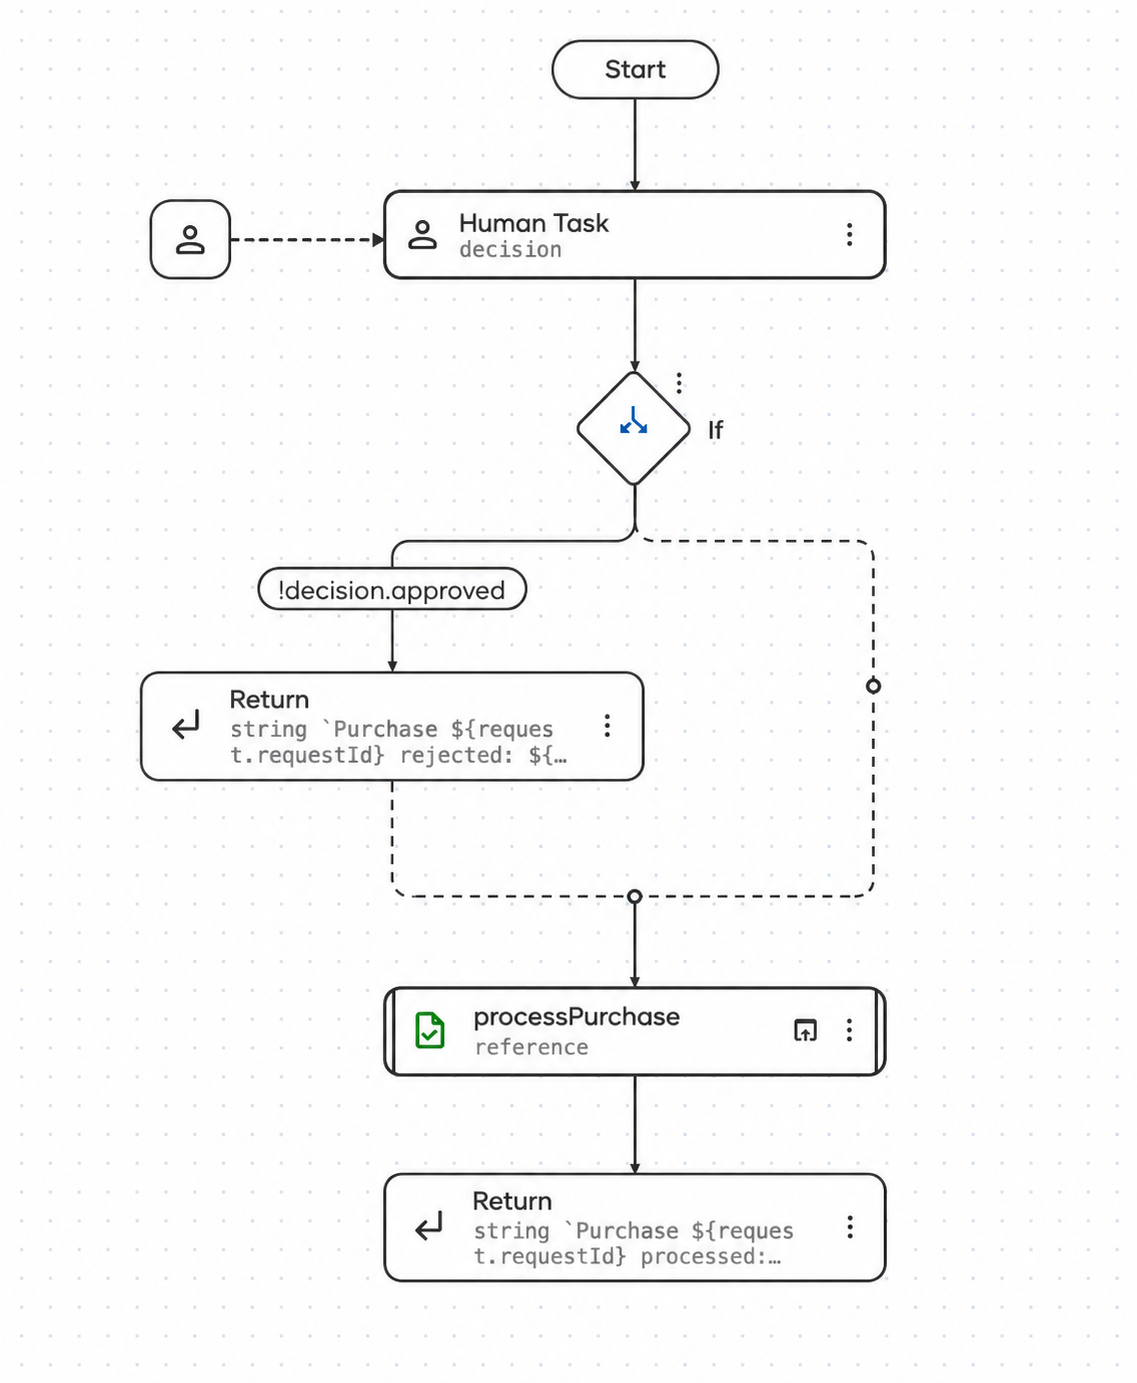
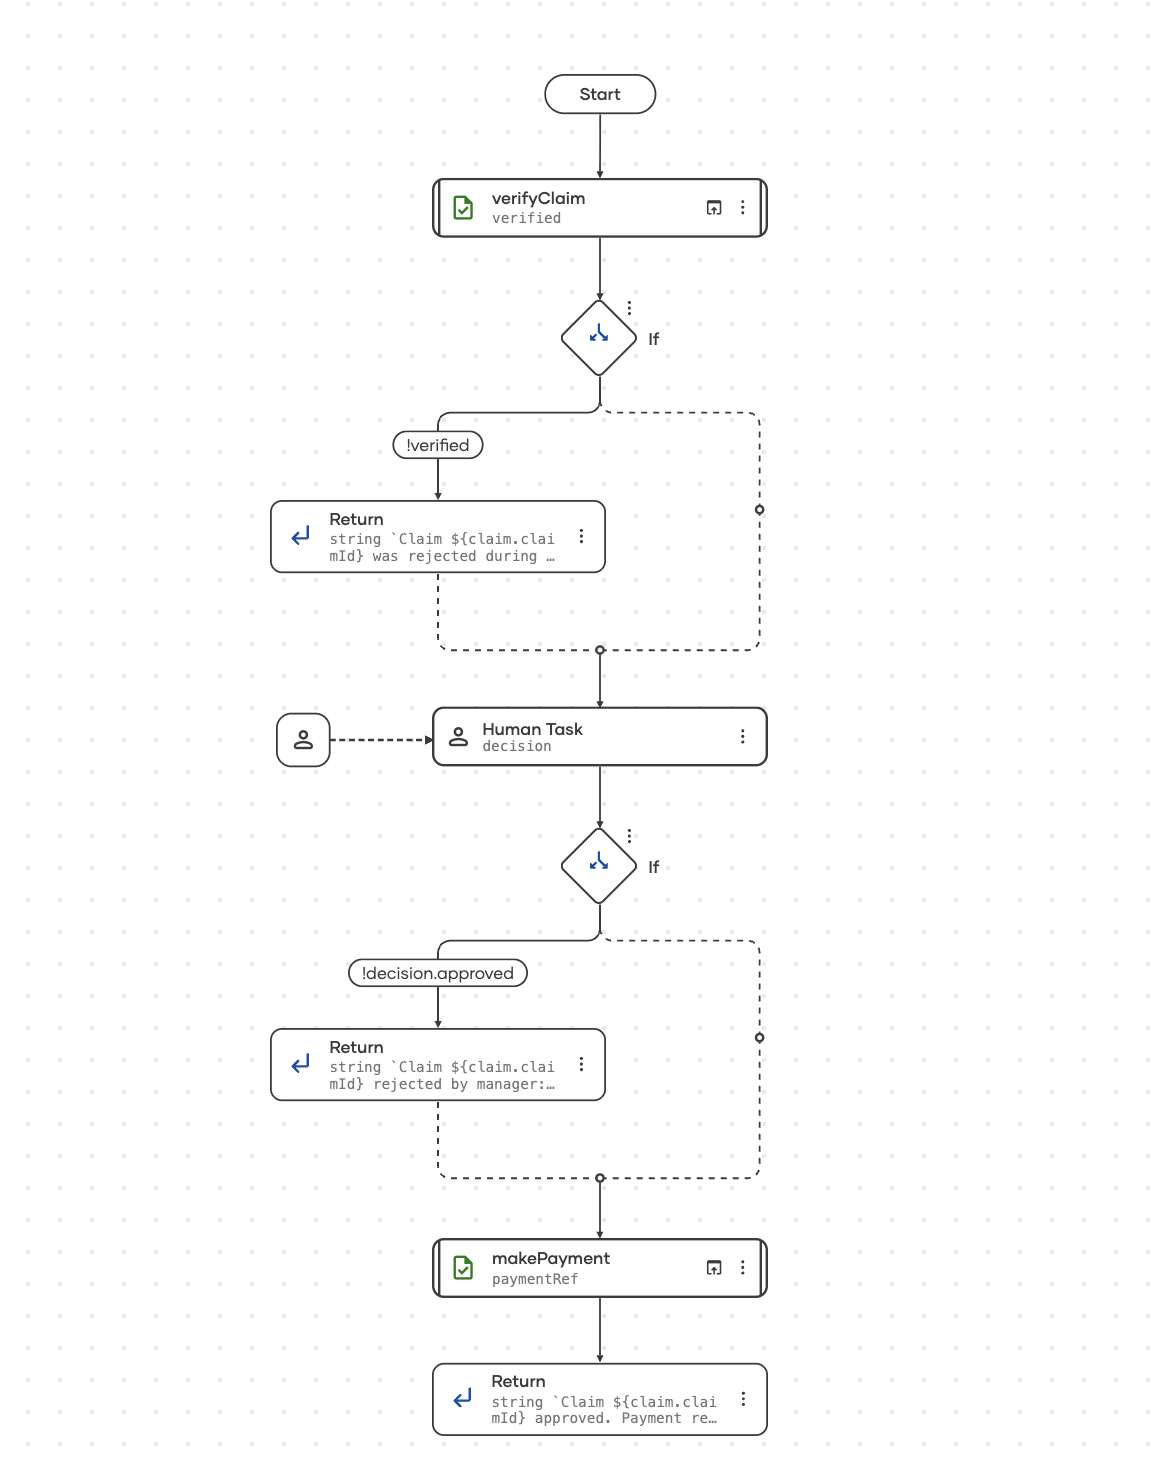
Improve homepage

diff --git a/components/home-page/bal-action/examples.js b/components/home-page/bal-action/examples.js
@@ -59,13 +59,14 @@ export const examples = [
     source: 'enterprise_agent/main.bal', link: base + 'enterprise_agent',
     diagram: {
       kind: 'image',
+      large: true,
       src: '/images/home-page/build-agent-flow.png',
       alt: 'Flow diagram showing an OpenAI-powered delivery agent with order and shipment lookup tools, followed by the agent run and logged answer'
     }
   },
   {
     id: 'expose-mcp', label: 'Expose MCP tools', title: 'Expose product stock through MCP',
-    description: 'Expose a stateless MCP service that retrieves typed stock data from an HTTP backend, logs successful lookups, and returns contextual errors when requests fail.',
+    description: 'Expose an MCP service that retrieves typed stock data from an HTTP backend, logs successful lookups, and returns contextual errors when requests fail.',
     source: 'expose_mcp_tools/main.bal', link: base + 'expose_mcp_tools',
     diagram: {
       kind: 'image',
@@ -74,13 +75,14 @@ export const examples = [
     }
   },
   {
-    id: 'coordinate-workflow', label: 'Coordinate a workflow', title: 'Purchase approval',
-    description: 'Pause a durable purchase workflow for a human decision, return a clear rejection when approval is denied, or continue to process an approved purchase.',
-    source: 'workflow_purchase_approval/main.bal', link: base + 'workflow_purchase_approval',
+    id: 'coordinate-workflow', label: 'Coordinate a workflow', title: 'Claim approval with a human task',
+    description: 'Verify an insurance claim, pause the durable workflow for a manager’s decision, and pay approved claims while returning clear rejection results.',
+    source: 'workflow-human-task/main.bal', link: base + 'workflow-human-task',
     diagram: {
       kind: 'image',
+      large: true,
       src: '/images/home-page/coordinate-workflow-flow.png',
-      alt: 'Workflow diagram that waits for a human approval, returns a rejection when denied, or processes and returns an approved purchase'
+      alt: 'Visual workflow for claim approval showing claim verification, a human decision task, rejection paths, and payment for approved claims'
     }
   }
 ];

diff --git a/components/home-page/bal-action/BalAction.module.css b/components/home-page/bal-action/BalAction.module.css
@@ -21,6 +21,7 @@
 .diagramPane { display: flex; flex-direction: column; }
 .diagramImageWrap { display: flex; align-items: center; justify-content: center; flex: 1; min-height: 0; padding: 12px; background: #fff; }
 .diagramImage { display: block; width: 100%; height: auto; max-height: 430px; object-fit: contain; }
+.diagramImageLarge { max-height: 700px; }
 .sequence { display: flex; flex-direction: column; gap: 18px; padding: 24px 18px; flex: 1; justify-content: center; }
 .participants { display: flex; justify-content: space-between; gap: 6px; }
 .participants span { display: flex; align-items: center; justify-content: center; text-align: center; border: 1px solid #20b6b0; background: #ecf8f7; border-radius: 4px; padding: 9px 6px; min-width: 0; flex: 1; font-size: 13px; }

diff --git a/components/home-page/bal-action/BalAction.js b/components/home-page/bal-action/BalAction.js
@@ -12,7 +12,7 @@ import styles from './BalAction.module.css';
 function Diagram({ diagram }) {
   if (diagram.kind === 'image') {
     return <div className={styles.diagramImageWrap}>
-      <img className={styles.diagramImage} src={diagram.src} alt={diagram.alt} />
+      <img className={`${styles.diagramImage} ${diagram.large ? styles.diagramImageLarge : ''}`} src={diagram.src} alt={diagram.alt} />
     </div>;
   }
   if (diagram.kind === 'mapping' || diagram.kind === 'workflow') {

diff --git a/components/home-page/bal-action/action-bbe/coordinate-workflow.md b/components/home-page/bal-action/action-bbe/coordinate-workflow.md
@@ -1,45 +1,63 @@
 import ballerina/http;
 import ballerina/io;
 import ballerina/workflow;
+import ballerina/workflow.management;
 
-type PurchaseRequest record {|
-    string requestId;
-    string item;
+type Claim record {|
+    string claimId;
+    string policyNo;
     decimal amount;
 |};
 
-type Approval record {|
+type ApprovalDecision record {|
     boolean approved;
     string comment;
 |};
 
 @workflow:Workflow
-function purchaseWorkflow(workflow:Context ctx, PurchaseRequest request)
-        returns string|error {
-    Approval decision = check ctx->awaitHumanTask("approvePurchase",
-        {requestId: request.requestId, item: request.item,
-            amount: request.amount},
-        userRoles = "MANAGER",
-        title = string `Approve purchase ${request.requestId}`,
-        description = "Review the purchase request.");
-    if !decision.approved {
-        return string `Purchase ${request.requestId} rejected: ${decision.comment}`;
+function claimApprovalWorkflow(workflow:Context ctx, Claim claim) returns string|error {
+    boolean verified = check ctx->callActivity(verifyClaim, {"claim": claim});
+    if !verified {
+        return string `Claim ${claim.claimId} was rejected during verification.`;
     }
-    string reference = check ctx->callActivity(processPurchase,
-        {"requestId": request.requestId});
-    return string `Purchase ${request.requestId} processed: ${reference}`;
+    ApprovalDecision decision = check ctx->awaitHumanTask("approveClaim", "MANAGER",
+            payload = {claimId: claim.claimId, policyNo: claim.policyNo, amount: claim.amount},
+            title = string `Approve claim ${claim.claimId}`,
+            description = "Review the claim and approve or reject the payment.");
+    if !decision.approved {
+        return string `Claim ${claim.claimId} rejected by manager: ${decision.comment}`;
+    }
+    string paymentRef = check ctx->callActivity(makePayment, {"claimId": claim.claimId, "amount": claim.amount});
+    return string `Claim ${claim.claimId} approved. Payment reference: ${paymentRef}`;
 }
 
 @workflow:Activity
-function processPurchase(string requestId) returns string|error {
-    io:println("Processing approved purchase ", requestId);
-    return string `PO-${requestId}`;
+function verifyClaim(Claim claim) returns boolean|error {
+    io:println(string `Verifying claim ${claim.claimId} against policy ${claim.policyNo}`);
+    return claim.amount <= 1000.0d;
 }
 
-service /purchases on new http:Listener(8080) {
-    resource function post .(PurchaseRequest request) returns json|error {
-        string workflowId = check workflow:run(purchaseWorkflow, request);
-        return {requestId: request.requestId, workflowId,
-            status: "PENDING_APPROVAL"};
+@workflow:Activity
+function makePayment(string claimId, decimal amount) returns string|error {
+    io:println(string `Paying ${amount} for claim ${claimId}`);
+    return string `PAY-${claimId}`;
+}
+
+service /claims on new http:Listener(8080) {
+
+    resource function post .(Claim claim) returns json|error {
+        string workflowId = check workflow:run(claimApprovalWorkflow, claim);
+        return {claimId: claim.claimId, workflowId, status: "PENDING_APPROVAL"};
+    }
+
+    resource function get [string workflowId]() returns json|error {
+        // Check the status first instead of blocking on the result:
+        // getWorkflowResult waits until the workflow completes.
+        management:WorkflowExecutionInfo info = check management:getWorkflowInfo(workflowId);
+        if info.status != "COMPLETED" {
+            return {workflowId, status: info.status};
+        }
+        anydata result = check workflow:getWorkflowResult(workflowId);
+        return {workflowId, status: info.status, result: check result.cloneWithType(json)};
     }
 }

diff --git a/components/home-page/bal-action/action-bbe/expose-mcp.md b/components/home-page/bal-action/action-bbe/expose-mcp.md
@@ -12,8 +12,7 @@ final http:Client stockClient = check new ("http://localhost:9091");
 listener mcp:StreamableHttpListener stockMcpListener = check new (9090);
 
 @mcp:StreamableHttpServiceConfig {
-    info: {name: "Product stock", version: "1.0.0"},
-    sessionMode: mcp:STATELESS
+    info: {name: "Product stock", version: "1.0.0"}
 }
 service mcp:StreamableHttpService /mcp on stockMcpListener {
 
